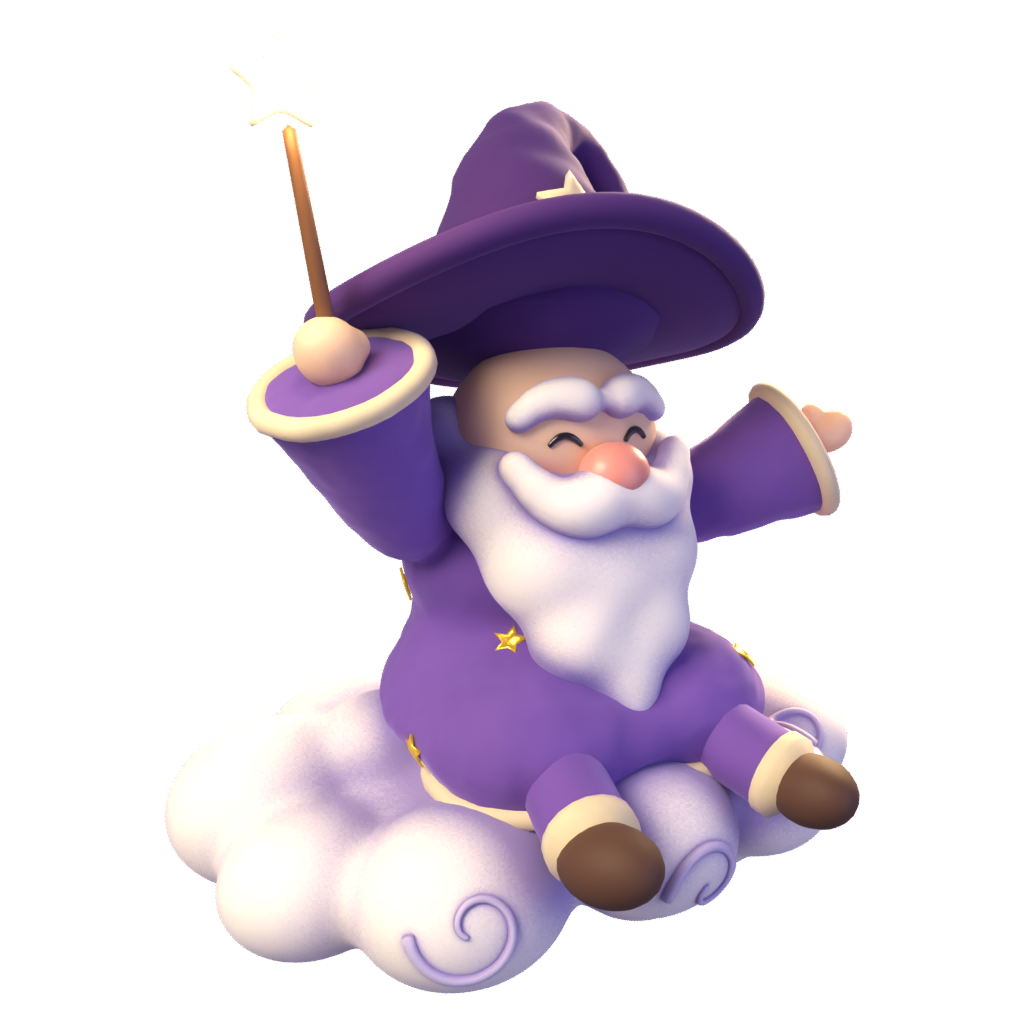
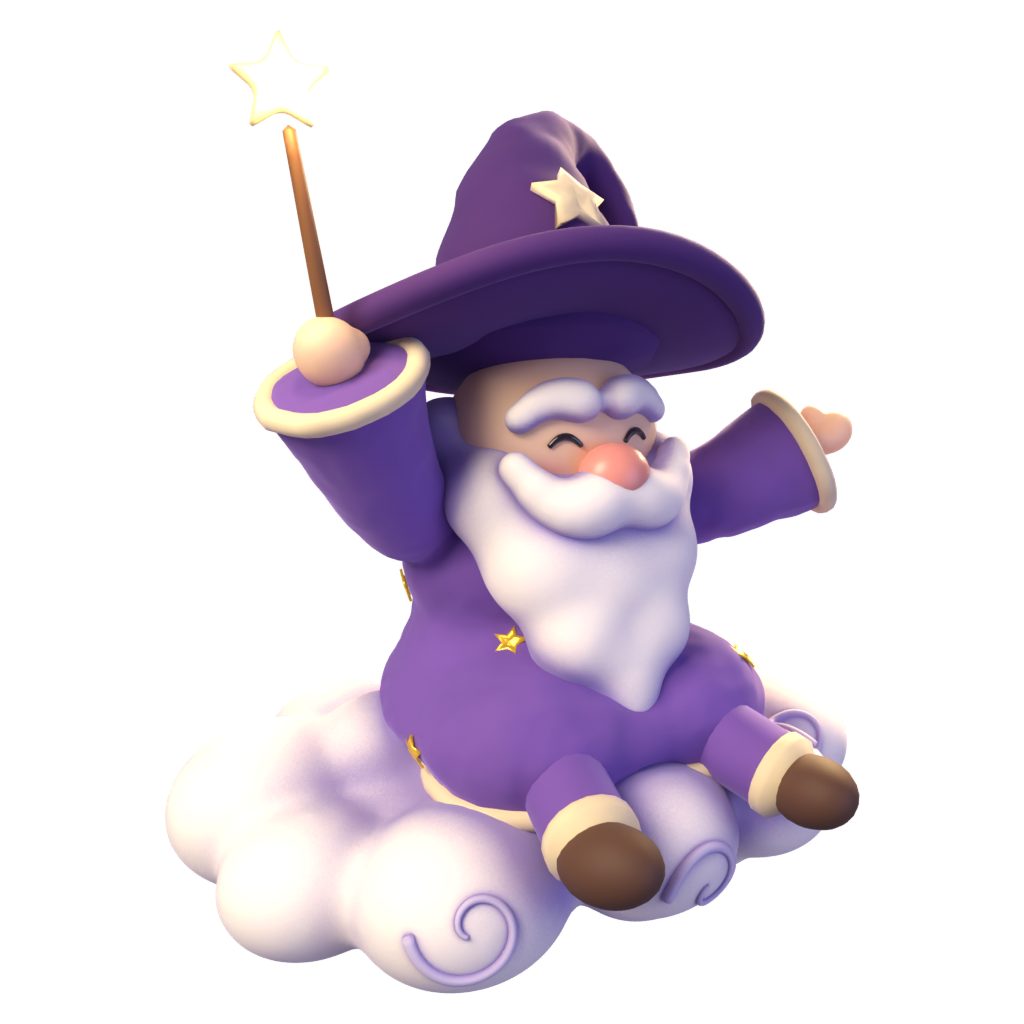
wip(levels): Pirate Cove looks and economy entries; wizard script iteration
gdUnit 568/568 on this snapshot.

Story: design/decisions/2026-10-14-story-cast-decisions.md (Pirate Cove)

Claude-Session: https://claude.ai/code/session_015gA98JmmjSJ5ZLv762bPy3

diff --git a/assets/source/blender/characters/wizard.py b/assets/source/blender/characters/wizard.py
@@ -453,8 +453,8 @@ def materials():
         "glint": principled("glint", "ffffff", rough=0.2, Emission_Color=lin("ffffff"), Emission_Strength=3.0),
         "mouth": principled("mouth", "mouth", rough=0.5),
         "tongue": principled("tongue", "tongue", rough=0.5),
-        "star": principled("wand_star", "fff1cf", rough=0.35, metal=0.0,
-                           Emission_Color=lin("ffe6a6"), Emission_Strength=0.35),
+        "star": principled("wand_star", "f3d99c", rough=0.35, metal=0.0,
+                           Emission_Color=lin("f8d488"), Emission_Strength=0.18),
     }
     return M
 
@@ -626,7 +626,7 @@ def build(pose_name, M):
         S, El, Wr = (Vector(p) for p in pose[side])
         d = (Wr - El).normalized()
         arm_dirs[side] = (Wr, d)
-        sl = skin_limb(f"W_sleeve{side}", [S, El, Wr, Wr + d * 0.035], [0.085, 0.10, 0.14, 0.165])
+        sl = skin_limb(f"W_sleeve{side}", [S, El, Wr, Wr + d * 0.035], [0.085, 0.10, 0.13, 0.148])
         sleeve_only[side] = sl.copy()
         sleeve_only[side].data = sl.data.copy()
         sleeves.append(sl)
@@ -640,7 +640,7 @@ def build(pose_name, M):
     # gold trim: cuffs and hem
     for side in ("R", "L"):
         Wr, d = arm_dirs[side]
-        cuff = trim_ring(f"W_cuff{side}", robe, Wr + d * 0.012, d, 0.018, M["band"], n=32, slab=0.008, maxr=0.13)
+        cuff = trim_ring(f"W_cuff{side}", robe, Wr + d * 0.012, d, 0.018, M["band"], n=32, slab=0.008, maxr=0.12)
         if cuff:
             W.append(cuff)
     for sl in sleeve_only.values():
@@ -721,14 +721,14 @@ def build(pose_name, M):
         a = 2 * math.pi * i / 72
         lip.append((0.385 * math.cos(a), 0.365 * math.sin(a) + 0.02, 1.095 + brim_z(a, 1.0) + 0.008))
     hat_parts.append(sweep("W_brimlip", lip, [0.026] * 72, ring=14, mat=M["hat"], closed=True))
-    hs = decal_star("W_hatstar", hat_parts[0], (0, -2, 1.25), (0, 1, 0), 0.075, 0.014, M["band"], offset=0.004)
+    hs = decal_star("W_hatstar", hat_parts[0], (0, -2, 1.31), (0, 1, 0), 0.08, 0.016, M["band"], offset=0.004)
     if hs:
         hat_parts.append(hs)
     for k, (x, z) in enumerate([]):
         s = decal_star(f"W_hatstar{k}", hat_parts[0], (x * 3, -2, z), (-x * 3, 2, 0), 0.026, 0.004, M["gold"])
         if s:
             hat_parts.append(s)
-    tilt = Matrix.Translation((0, 0.02, 1.175)) @ Matrix.Rotation(math.radians(-20), 4, "X") @ \
+    tilt = Matrix.Translation((0, 0.02, 1.145)) @ Matrix.Rotation(math.radians(-17), 4, "X") @ \
         Matrix.Rotation(math.radians(6), 4, "Y") @ Matrix.Translation((0, -0.02, -1.08))
     for o in hat_parts:
         o.data.transform(tilt)

diff --git a/design/gdd/campaign-structure.md b/design/gdd/campaign-structure.md
@@ -16,6 +16,25 @@ The campaign is 10 biomes of 10 levels each (100 levels). Inside a biome, levels
 
 Campaign Structure orders the content Level Data defines and decides what unlocks when. The map is a chain of **biomes** (grass / meadow first; the rest are named when designed — references suggest ice, lava, forest, celestial, underwater, rune/neon). Each biome holds **10 levels**, and a level's **tier** is its position in the biome (1–10). Every biome follows the meadow template (Level Data rule 8): early tiers teach or re-teach, middle tiers introduce the biome's own twists and level mechanics one at a time, and tier 10 is the **biome finale** stacking two twists and a mechanic. Later biomes may call back one earlier twist per level. Base speed rises gently with biome and tier (F2). Finishing a level (1★) unlocks the next; a biome unlocks when the previous biome's finale is finished **and** at least 15 of its 30 stars are earned, so stars matter without blocking casual players for long. Levels can be replayed freely to improve stars. This serves *Variation Over Depth* (new ideas every level, new biome every 10) and *The Block Is the Constant* (every level is still blocks). All values are starting defaults.
 
+**Biome order (2026-10-14, user decision `design/decisions/2026-10-14-story-cast-decisions.md`).** The authored chain in `assets/data/campaign/catalog.json` (`biomes`) and `assets/data/meta/economy.json` (`biomes`, used for the star gate) is:
+
+| # | Biome id | Name | Notes |
+|---|---|---|---|
+| 1 | `meadow` | Meadow | |
+| 2 | `candy` | Candy | |
+| 3 | `ice` | Ice | |
+| 4 | `underwater` | Underwater | Finale gets the Crab King (Admiral Crab's claws) |
+| 5 | `pirate` | Pirate Cove | **New; the 11th main biome.** Fort Blast (09), Rainbow Kraken / Kraken Blockade finale (10), Treasure Hoard bonus. `fort_siege`, `siege_shot` and `boss_hp` levels run on existing-rule stand-ins until those modules exist (intent recorded in each level's `metadata.design_spec`) |
+| 6 | `lava` | Lava | |
+| 7 | `forest` | Forest | |
+| 8 | `cave` | Cave | |
+| 9 | `clockwork` | Clockwork | |
+| 10 | `neon` | Neon | |
+| 11 | `celestial` | Celestial | |
+| 12 | `carnival` | Tumble Fair | Side island in fiction; gated like a main biome in data |
+
+Eleven main biomes plus Tumble Fair gives 12 x 10 = **120 main-path levels**. Unlock rules are unchanged: Pirate Cove opens after the Underwater finale plus 15 Underwater stars, and Lava now follows Pirate Cove. Numeric shop `biome_open` requirements (values 2 to 4) still point at the same biomes because Pirate Cove is inserted at position 5. The Pirate Cove h1 to h3 bonus levels are not authored yet.
+
 ## Detailed Design
 
 ### Core Rules
